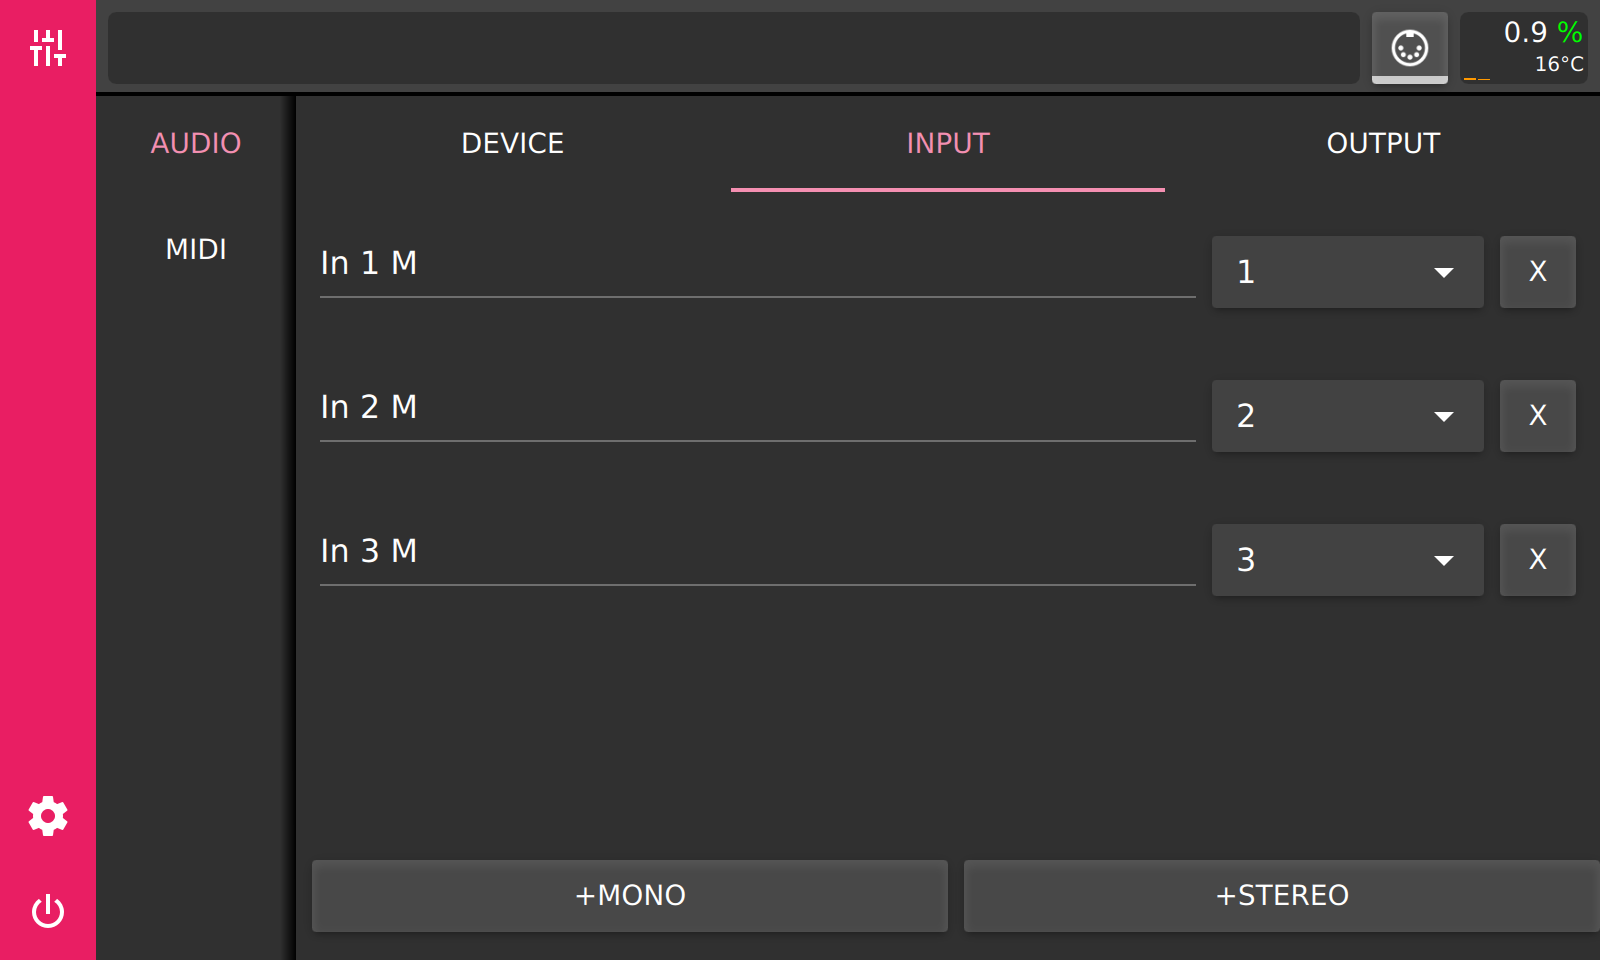
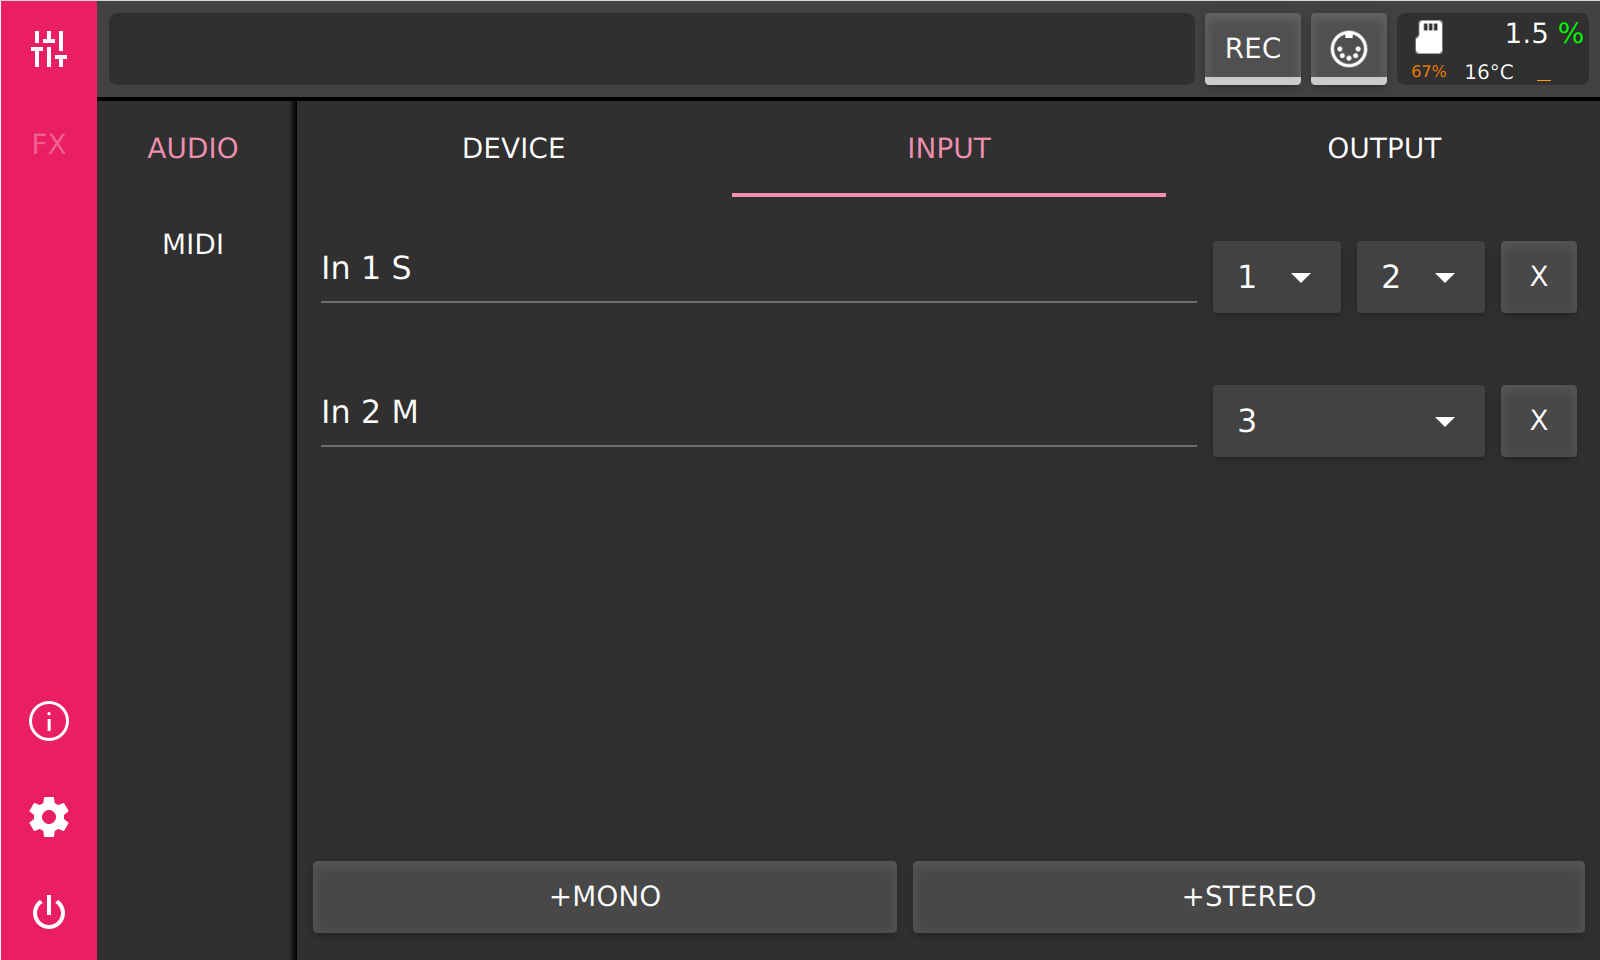
Update documentation for v0.9.0 release

diff --git a/source/conf.py b/source/conf.py
@@ -18,11 +18,11 @@
 # -- Project information -----------------------------------------------------
 
 project = 'PieJam'
-copyright = '2020-2021, Dimitrij Kotrev'
+copyright = '2020-2024, Dimitrij Kotrev'
 author = 'Dimitrij Kotrev'
 
 # The full version, including alpha/beta/rc tags
-release = 'v0.7.0'
+release = 'v0.9.0'
 
 
 # -- General configuration ---------------------------------------------------

diff --git a/source/index.rst b/source/index.rst
@@ -14,7 +14,7 @@ PieJam is a simple audio mixer for Raspberry Pi. It provides a graphical touch
 interface which should be used with the official 7" Raspberry Pi touchscreen.
 It needs some external audio interface, most USB based ones should work.
 
-This documentation is work in progress and should give a brief overview of 
+This documentation is work in progress and should give a brief overview of
 the functionality.
 
 Features
@@ -25,65 +25,244 @@ Features
 * Mute and solo
 * Flexible routing between mixer channels
 * Fx chain per mixer channel
+* Fx modules:
+
+  * Dual Pan
+  * Filter
+  * Gain
+  * Oscilloscope
+  * Spectrum Analyzer
+
 * Support for LADSPA plugins
 * Parameter control through MIDI CC
-* Oscilloscope and Spectrum Analyzer
-* Recorder
+* Session recorder
 
-User interface
---------------
+Usage Example
+-------------
 
-Audio device settings
+PieJam is quite flexible and can be used in different scenarios. The main goal
+is to mix multiple audio sources. The number of audio sources you can mix depends
+usually on the number of inputs your audio interface provides.
+
+Setup & Installation
+--------------------
+
+.. image:: images/overview_disassembled.png
+   :align: center
+
+For a minimal setup you will need:
+
+* a Raspberry Pi, supported versions are:
+
+  * 2B v1.1
+  * 3B v1.2
+  * 4B
+
+* the Raspberry Pi 7" touchscreen display
+* a USB audio interface
+* SDHC card (at least 512MB) with PieJam OS
+
+Hardware Setup
+^^^^^^^^^^^^^^
+Connect the ribbon cable to the display:
+
+.. image:: images/connect_ribbon_to_screen.png
+   :align: center
+
+Connect other end of the ribbon cable to the Raspberry Pi:
+
+.. image:: images/connect_ribbon_to_pi.png
+   :align: center
+
+Connect the red cable to the 5V pin and the black cable to the GND pin
+on the back of the screen.
+
+.. image:: images/connect_power_to_screen.png
+   :align: center
+
+Connect other end of the red cable to pin 4 and other end of the black
+cable to pin 6 on the Raspberry Pi.
+
+.. image:: images/connect_power_to_pi.png
+   :align: center
+
+Finally connect your USB audio interface to a USB port on Raspberry Pi. The
+power supply should be connected to the Raspberry Pi, not the screen! It is
+advisable to use the official power supply, because it was designed to properly
+deliver enough power for Raspberry Pi, touchscreen and potential
+USB devices.
+
+Software Setup
+^^^^^^^^^^^^^^
+Together with PieJam a tiny Linux system, PieJam OS, was developed. Its' purpose is
+to boot as fast as possible and start PieJam. There are prebuilt images
+of this system, which you can download here:
+
+https://github.com/nooploop/piejam_os/releases/tag/v0.9.0
+
+Download the image for your version of Raspberry Pi and flash it to a SDHC card.
+
+A beginner friendly way to flash an image, is to use the `Raspberry Pi Imager`_.
+
+   .. _Raspberry Pi Imager: https://www.raspberrypi.com/software/
+
+Tutorial
+--------
+If PieJam OS was flashed correctly and once the system is powered up, a boot logo
+should appear.
+
+On first boot PieJam OS will perform some setup tasks. One of these tasks is to create
+a data partition. Depending on the size and speed of the SDHC card in use, this task may take
+several seconds to several minutes.
+
+.. image:: images/boot_setup.png
+   :align: center
+
+When the boot process is finished, the application starts and you will be presented with main mixer view.
+On the left is the main toolbar, where you can switch between main views: mixer, fx, logger, settings and power.
+On top is the statusbar, containing a field for messages and tooltips, a session record button, a midi learn button and
+a system info field. On the right is a toolbar for the selected view. In the middle you'll see the mixer in its initial state,
+containing only the main mixer channel.
+
+.. image:: images/initial_view.png
+   :align: center
+
+Audio Device Configuration
+^^^^^^^^^^^^^^^^^^^^^^^^^^
+As next step we need to configure the audio device. Most USB audio devices should work. Therefore make sure the audio device is
+connected to the Raspberry Pi and select the settings button (cog icon) on the main toolbar.
+
+.. image:: images/audio_device_settings_initial.png
+   :align: center
+
+As first an input and an output device should be selected. It's possible to select different physical devices for input and output,
+but best results are achieved if same device is used for input and output. If the device is not listed in the selection box,
+try refreshing the list by pressing the refresh button to the right of the selection boxes. As next you should select a sample rate,
+period size and period count. For best results with USB audio devices set the sample rate to 48000 or 96000 Hz and period count to 3.
+By controlling the period size, you can influence the latency. Lower period size means lower latency. You
+can further reduce latency by increasing the sample rate or by reducing the period count, but work with period size first.
+Lower latency means always higher CPU usage, higher CPU usage could lead to audio glitches and dropouts. Therefore you should strive
+to find the best balance for your usecase. Try to reduce the latency for better live performance, but keep an eye on the CPU usage to
+avoid audio dropouts.
 
 .. image:: images/audio_device_settings.png
    :align: center
 
-Audio input settings
+As next we need to configure the physical inputs and outputs. Therefore select the input or the output tab to perform the configuration.
+On the input tab, press '+MONO' to add a mono device bus or '+STEREO' to add a stereo device bus.
 
 .. image:: images/audio_input_settings.png
    :align: center
 
-Audio output settings
+Output device buses are always stereo. By changing the channel assignment you can route the device bus to different physical inputs/outputs.
 
 .. image:: images/audio_output_settings.png
    :align: center
 
-MIDI input settings
+Mixer
+^^^^^
+After audio device configuration, we need to configure the mixer channels. First switch to mixer by pressing the mixer button on the main toolbar.
+The view which shows level meters and faders is called the 'performance' view of the mixer. To configure the mixer channels we need to
+switch into the 'edit' view of the mixer. The 'edit' view can be switched to by pressing the 'pencil' button on the view toolbar, which is to the
+right of the mixer.
 
-.. image:: images/midi_input_settings.png
+.. image:: images/mixer_edit_view_initial.png
    :align: center
 
-Mixer Perform View
-
-.. image:: images/mixer.png
-   :align: center
-
-Mixer Edit View
+The 'edit' view allows you to add and remove channels and to configure those. The 'main' channel is always present and cannot be removed.
+There are two kind of channels which can be created a 'mono' and a 'stereo' one. A mono channel should be used when a mono device input is used,
+otherwise a stereo channel should be used. The 'main' channel is a stereo one. The field at the top of every channel can be used to rename it.
+Below are two fields for input and output routing of a channel. Mono channel input can only be assigned to a device input or stay unassigned.
+Mono channel output can be routed to another stereo channel, a device output or stay unassigned. Stereo input can be set to receive its'
+signal from another channel, a stereo device input or the 'mix' input. The 'mix' input is the sum of all channels which route their output
+to this channel. The output of a stereo channel can be routed to a device output, to another stereo channel or stay unassigned.
 
 .. image:: images/mixer_edit_view.png
    :align: center
 
-Fx chain
+Switching back to 'performance' view is done by pressing the 'pencil' button on the view toolbar or by pressing the 'mixer' button on the
+main toolbar. On top of each channel there is a field with its name, which can be changed on the 'edit' view. Beneath is a bipolar slider,
+which controls the panning on a mono channel or the stereo balance on a stereo channel. Below are the level meters and the volume fader.
+The level meters show the output level after the volume fader is applied. At the bottom there are three control buttons. 'R' toggles
+the record state during session recording. 'S' (Solo) will mute all other channels in same mixing group, which are not soloed too. Channels
+belong to same mixing group if they have same output destination. 'M' will mute the channel.
 
-.. image:: images/fx_chain.png
+.. image:: images/mixer_performance_view.png
    :align: center
 
-Oscilloscope
+Every channel allows modification of the audio signal by audio effects. Those can be inserted when the mixer is switched to 'effects' view.
+Switching to 'effects' view is done by pressing the 'FX' button on view toolbar, to the right of the mixer.
 
-.. image:: images/oscilloscope.png
+.. image:: images/mixer_fx_view_initial.png
    :align: center
 
-Spectrum Analyzer
-
-.. image:: images/spectrum.png
-   :align: center
-
-Fx browser
+Appending an effect to a channels effect chain is done by pressing the '+' button at the bottom of the corresponding channel. When the '+'
+button is pressed the effect browser will appear.
 
 .. image:: images/fx_browser.png
    :align: center
 
-MIDI Learn
+To the left is a list of available effect modules. The list may differ depending on the configuration of the channel (mono/stereo). After
+selecting an effect in the list, by pressing 'INSERT' button, the module will be appended to the effect chain of the corresponding channel.
+When the module is inserted, the view will switch to the newly inserted module. To add more modules switch to the mixer by pressing the
+'mixer' button on the main toolbar. Perform the same series of actions to add more modules. By pressing on a name of an effect module in the
+'fx' view, the module will selected. Selection is indicated by a highlighted border and a delete button ('X') will appear to the right of the name
+of the selected module. The position of a selected module inside the effect chain can be changed with the up and down buttons at the bottom
+of the channel with selected module. Moving a module up will move it closer to the input and moving it down will move it closer to the output.
+
+.. image:: images/mixer_fx_view.png
+   :align: center
+
+Clicking on the selected module again will show the modules interface and switch into 'FX' view. When there is a selected module the 'FX' button
+on the main toolbar will be active and by pressing it, it will always show the last selected effect module.
+
+.. image:: images/fx_view_filter.png
+   :align: center
+
+MIDI
+^^^^
+MIDI continuous controller messages can be used to control parameters in PieJam. Most mixer parameters and almost all parameters of any effect module
+can be controlled. To be able to assign MIDI CC to a parameter, a MIDI sending device should be enabled first. All available MIDI devices will be listed
+on the 'MIDI' settings tab. There, every MIDI sending device can be switched on and off.
+
+.. image:: images/midi_input_settings.png
+   :align: center
+
+After a MIDI device was enabled, we can assign a MIDI CC to a parameter. For this we need to switch into MIDI assign mode, by pressing the 'MIDI'
+button in the status bar at the top. Every assignable parameter will get a yellow overlay. Pressing on one of those overlays will activate it and it
+starts to flash. This signals that this parameter is now in 'learning' mode and is waiting for any incoming MIDI CC messages.
 
 .. image:: images/midi_learn.png
+   :align: center
+
+When a MIDI CC message is received, the 'learning' parameter will be immediately assigned to this CC and can now be controlled by it. Every following
+MIDI CC message with the assigned CC number will modify this parameter with the corresponding CC value. The overlay of an assigned parameter will
+become green. The assigned CC is noted in the left-top corner of the overlay, e.g. 'CC 10 @1', which means 'CC 10' on MIDI channel 1. Pressing the
+'MIDI' button in statusbar at the top again, will leave the MIDI-assign mode.
+
+.. image:: images/midi_learned.png
+   :align: center
+
+Session Recording
+^^^^^^^^^^^^^^^^^
+PieJam provides a simple way to record the output of every mixer channel. To mark a mixer channel for recording, toggle the 'R' button on the
+corresponding channel. To start recording press the 'REC' button on the statusbar at the top. To stop recording press the 'REC' button again.
+PieJam will record the output to files stored in the data partition on the microSD card. Files will be stored in a specific folder structure.
+The top folder is called 'recordings'. Beneath you will find the session folders. The folders are enumerated in increasing order. Everytime PieJam
+starts a new session folder will be created when recording starts. Further down there are 'take' folders. Those are created everytime the
+'REC' button is toggled. So a session might consist of multiple takes. Every channel which is marked for recording will record into a file inside
+of a 'take' folder.
+
+.. image:: images/recordings.png
+   :align: center
+
+Info Field
+^^^^^^^^^^
+The field in the top right corner contains some information about the status of the system. The percentage underneath the microSD icon indicates how
+much space of the data partition is used. The celsius readout is the temperature of the CPU. And atlast the percentage shows audio load. Higher load
+may lead to dropouts. The color of the percentage sign indicates the occurence of dropouts. Green means that there were no dropouts sofar. Red means
+that a dropout occured recently. And yellow means that a dropout occured some time ago (more than 2 sec). Below the percentage, four small bars show
+the load of every CPU core on the Raspberry Pi.
+
+.. image:: images/status_field.png
    :align: center
